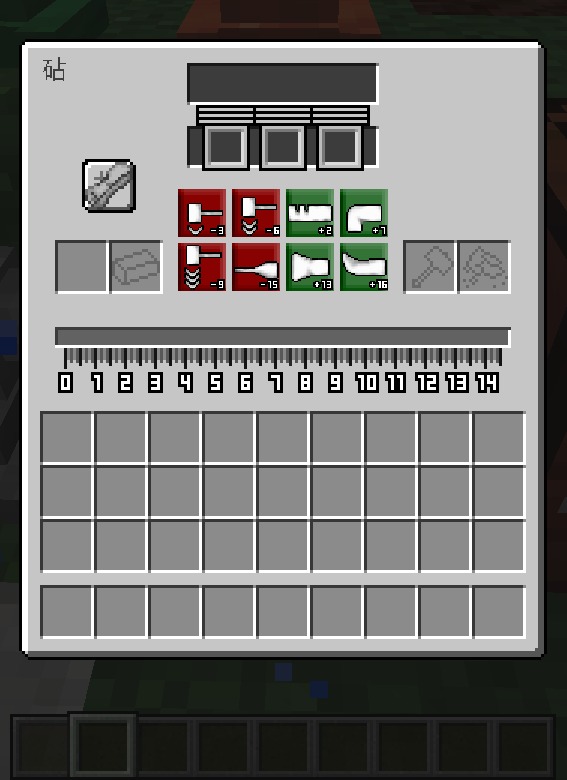
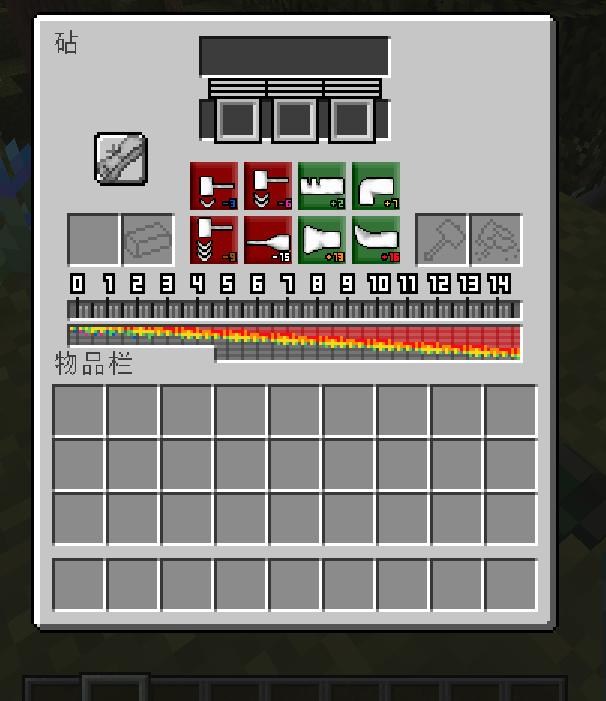
feat: add a list of minimal action for resourcepack

diff --git a/README.md b/README.md
@@ -16,7 +16,7 @@ TFC群峦传说的锻造公式图形化计算器，利用java8编写，内置了
 
 可以通过在游戏内载入 [TFC-Forging-Assistance.zip](https://github.com/EnableAria/TFC-BestFormula/releases/tag/resourcepacks) 资源包，以准确获取目标值。该资源包支持的游戏版本为 1.7、1.12、1.18和1.20。
 
-游戏(1.18)内资源包效果如下所示:
+游戏(1.20)内资源包效果如下所示:
 
 ![](/img/game.png "资源包界面")
 
